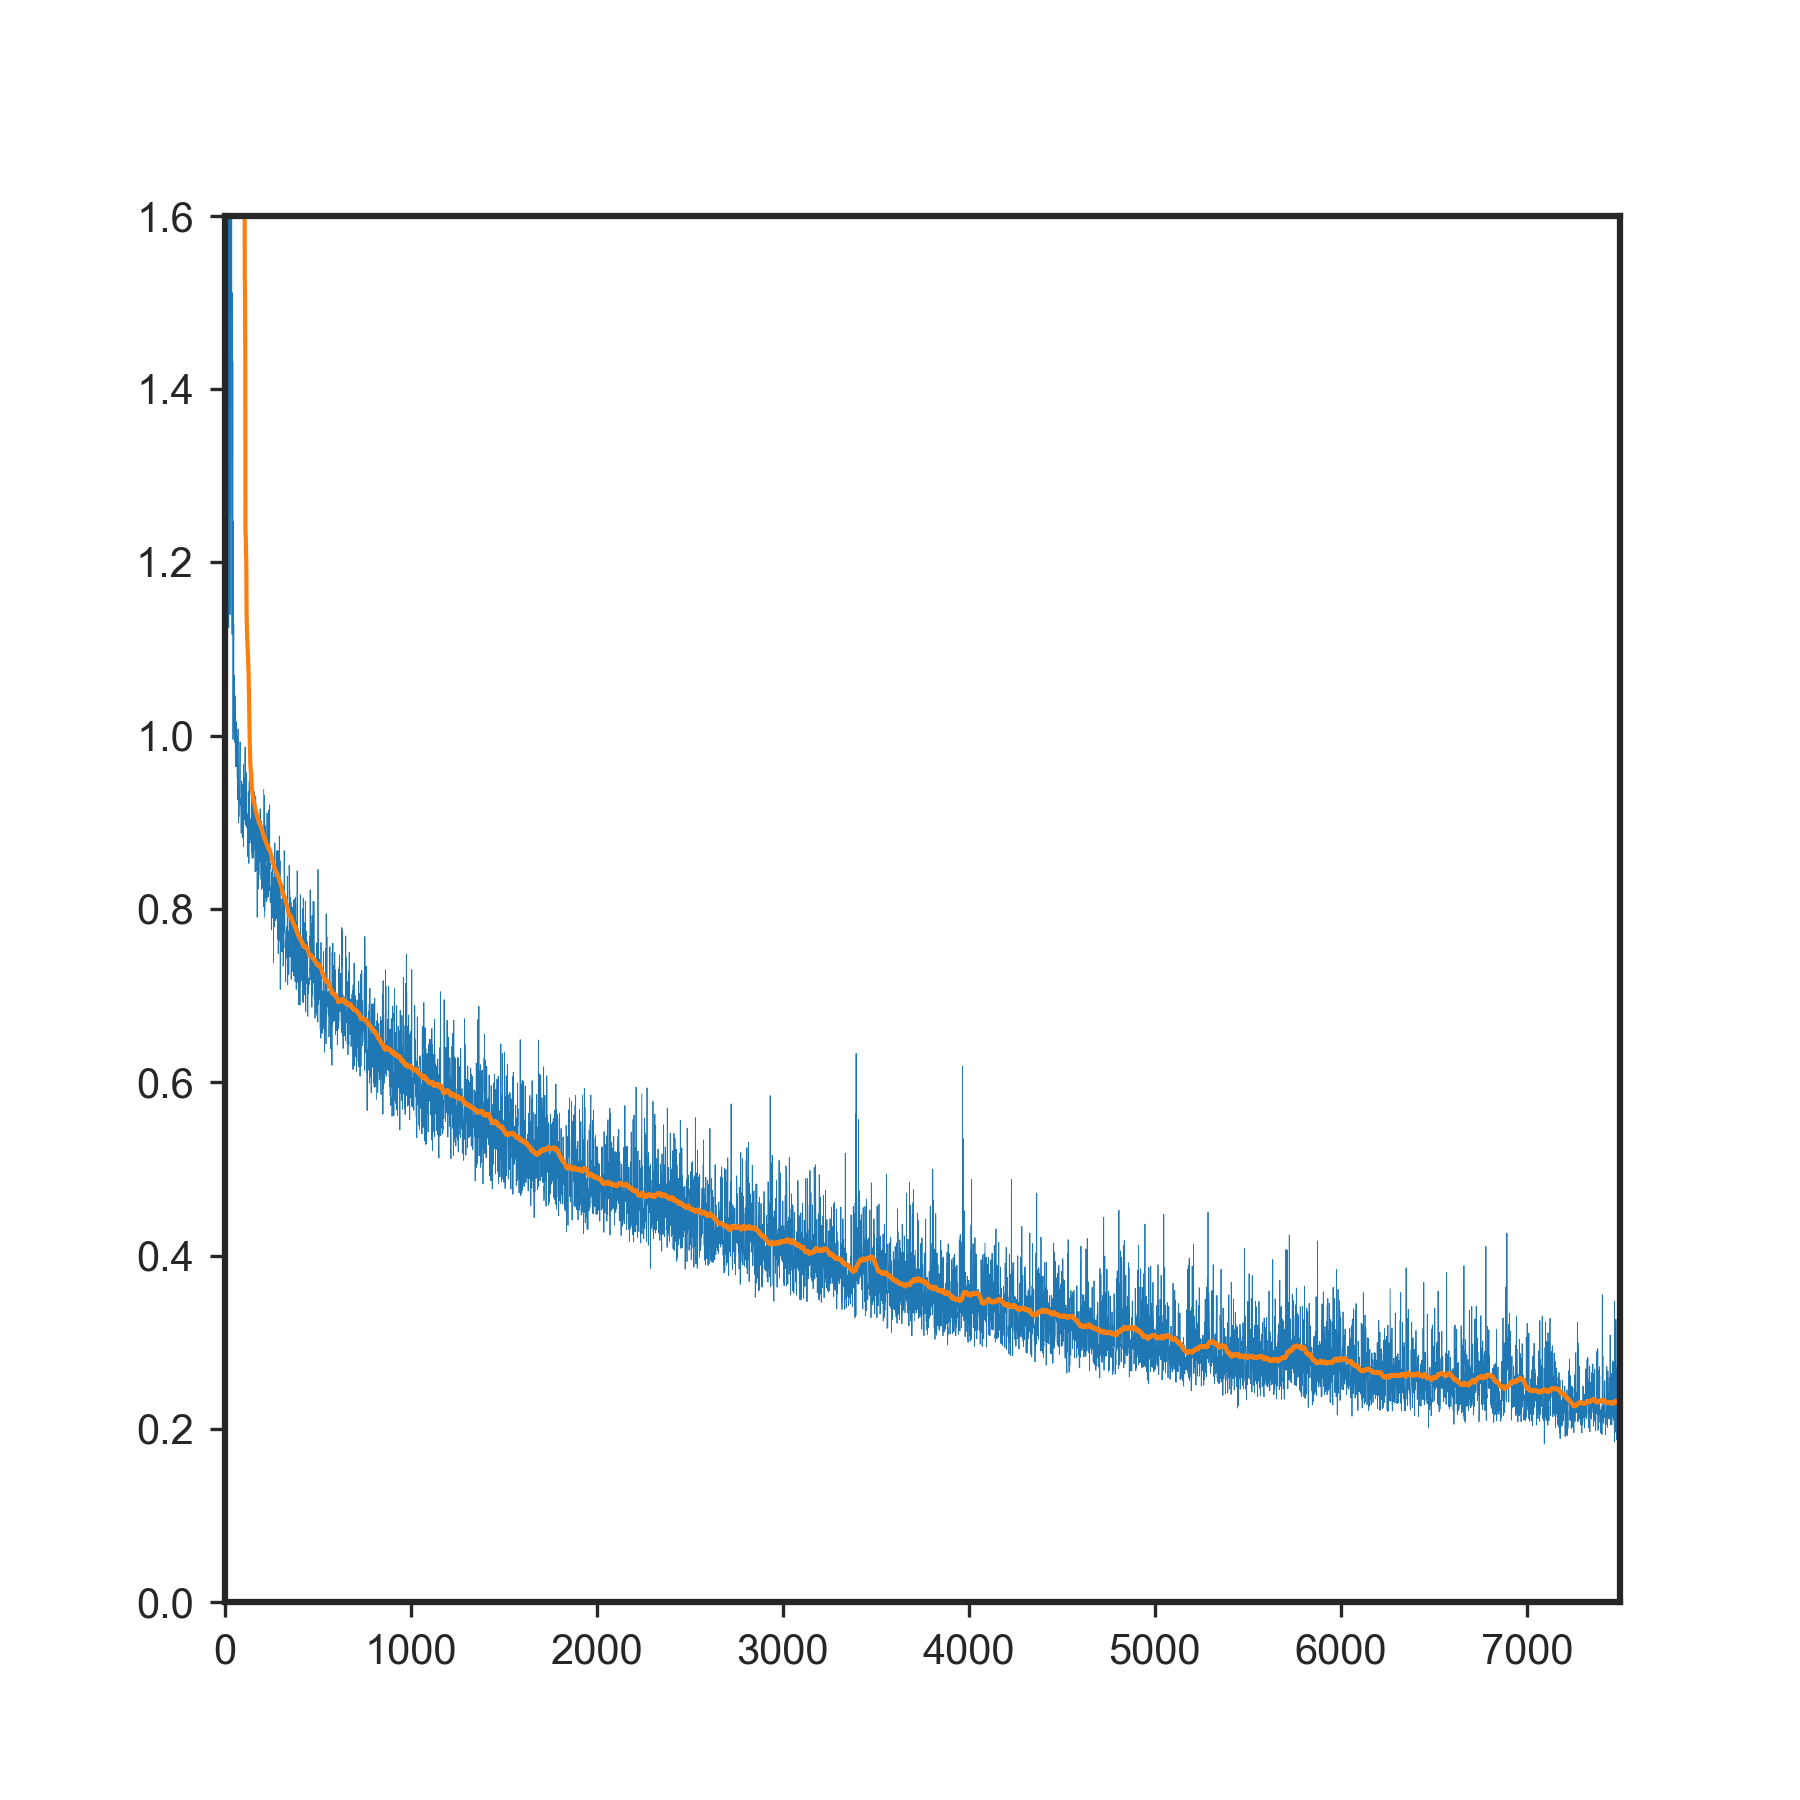
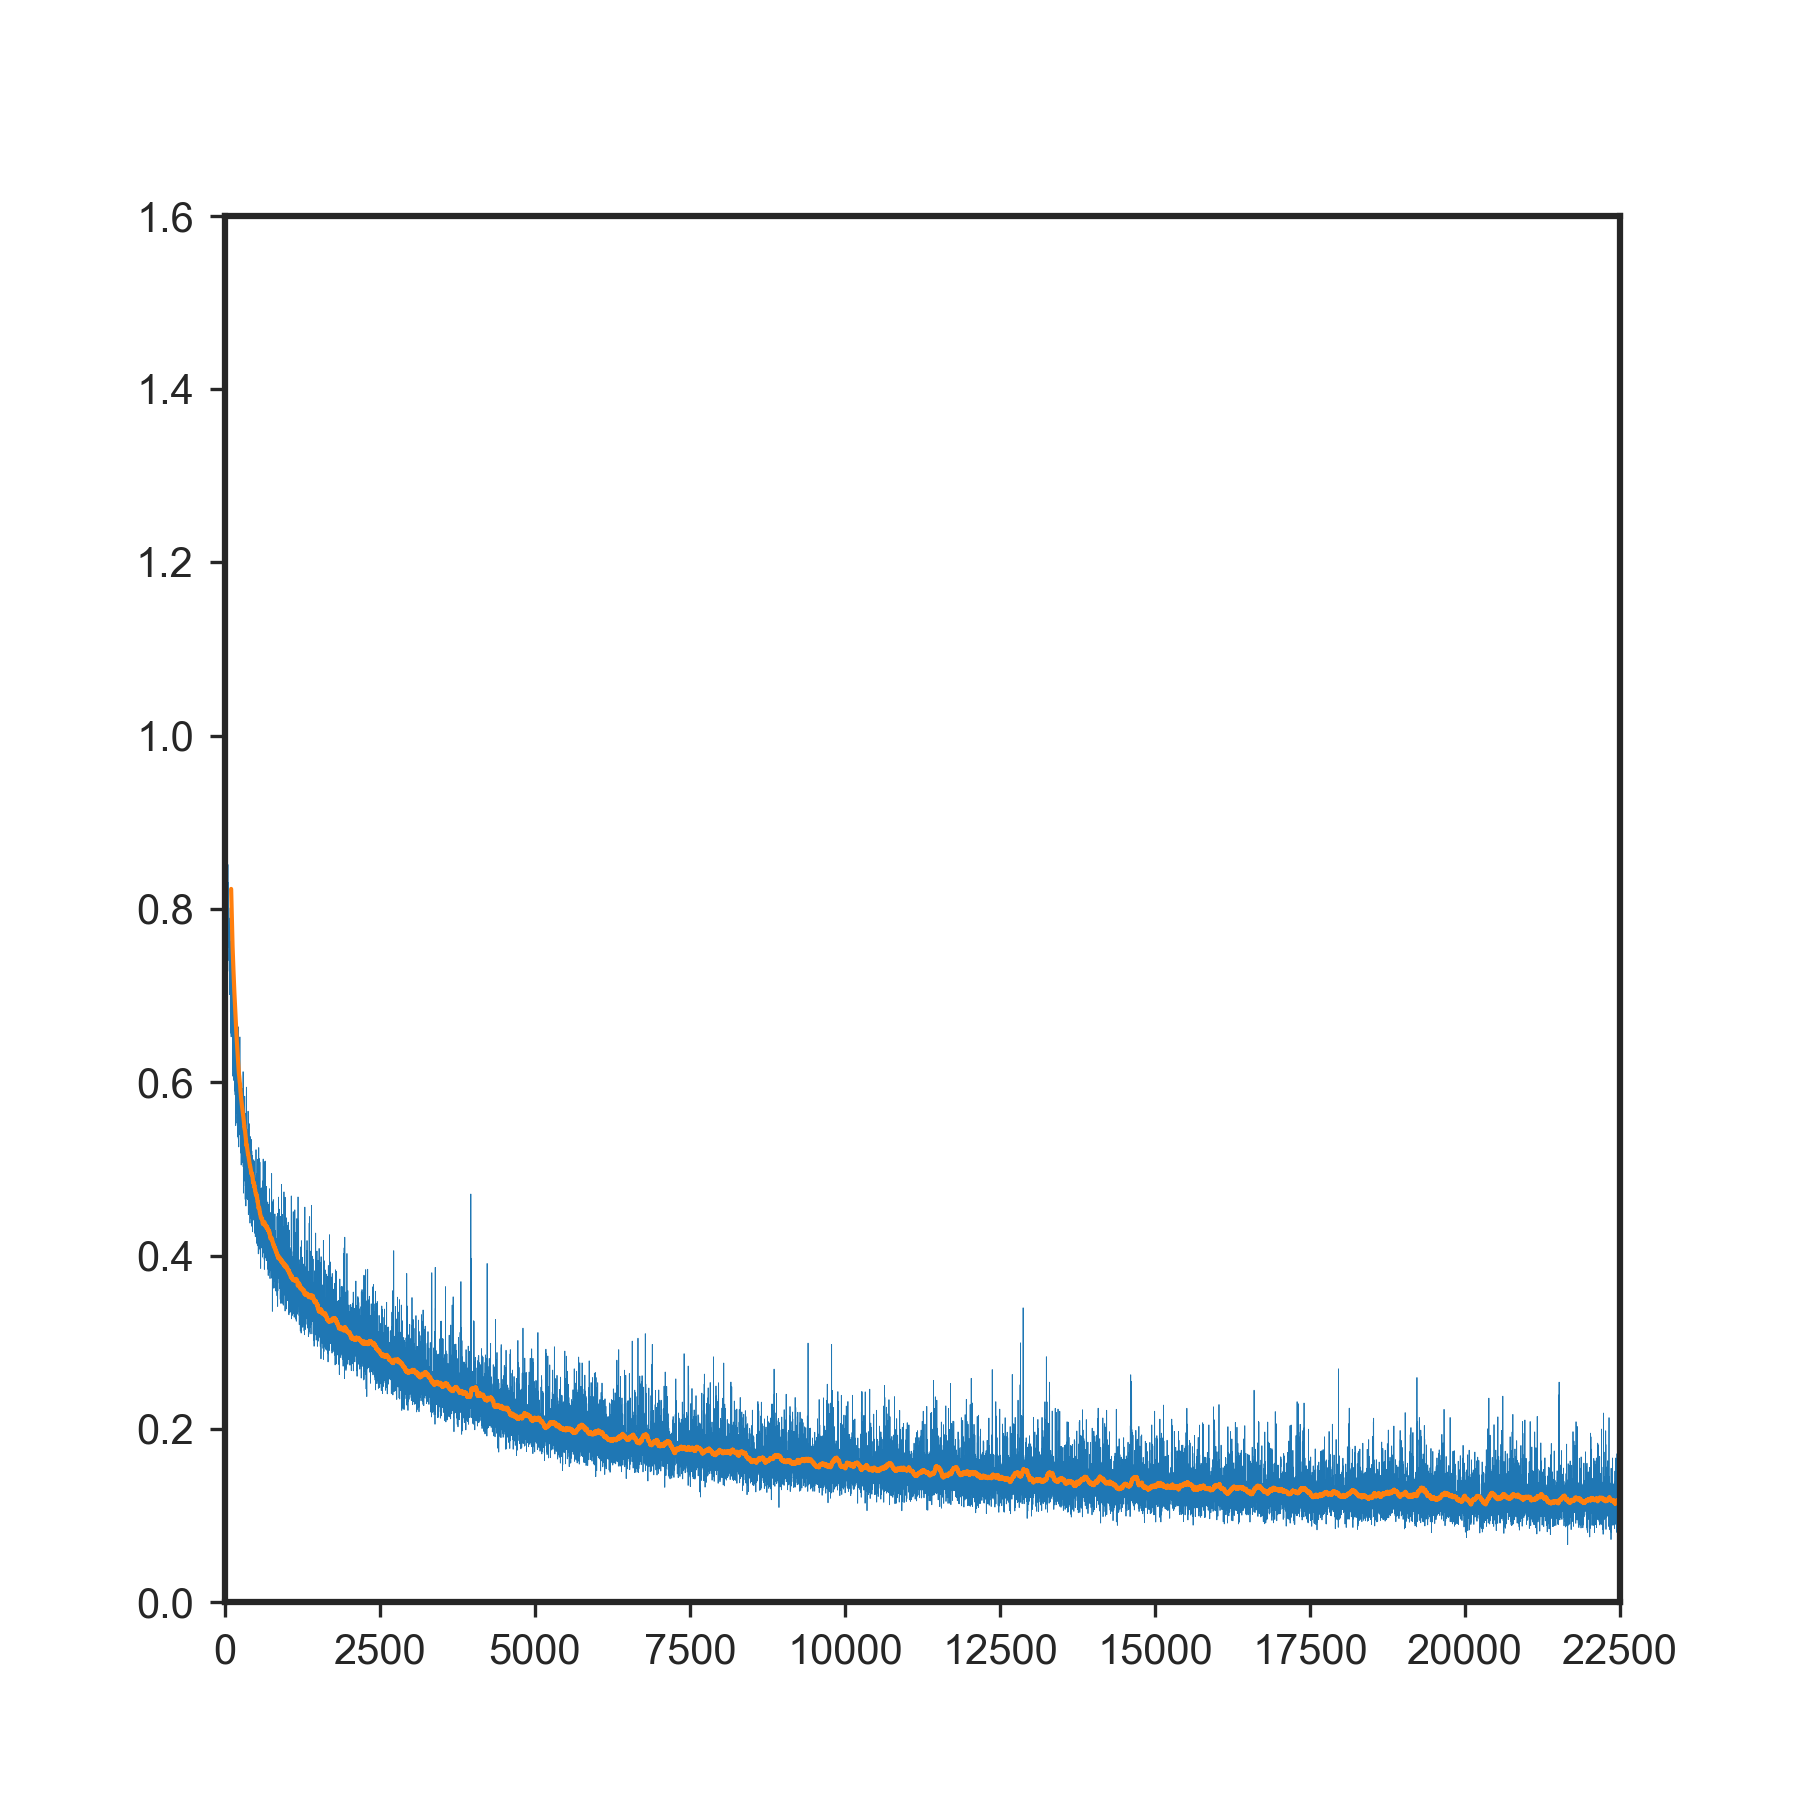
feat: add FID score

diff --git a/notebooks/2_5_fid.py b/notebooks/2_5_fid.py
@@ -1,0 +1,87 @@
+from ddpm_from_scratch.models.lenet5 import LeNet5
+from pathlib import Path
+import torch
+from torchtyping import TensorType
+from ddpm_from_scratch.ddpm import DDPM
+from ddpm_from_scratch.engines.mnist import (
+    MnistInferenceGifCallback,
+    get_one_element_per_digit,
+    inference,
+    load_mnist,
+    train,
+)
+from ddpm_from_scratch.models.unet import UNet
+from ddpm_from_scratch.utils import B, N, gaussian_frechet_distance, cosine_beta_schedule
+from tqdm import tqdm
+
+PLOT_DIR = Path(__file__).parent.parent / "plots"
+DATA_DIR = Path(__file__).parent.parent / "data"
+
+
+if __name__ == "__main__":
+
+    #%% Load the LeNet5 model.
+    lenet5 = LeNet5(num_classes=10)
+    lenet5.load_state_dict(torch.load(DATA_DIR / "lenet5.pt"))
+
+    # Load the MNIST dataset. Split between training and test set.
+    mnist_train, dataloader_train, mnist_test, dataloader_test = load_mnist(DATA_DIR, batch_size=8)
+
+    # Compute features for training and test set.
+    with torch.inference_mode():
+        features_train_list: list[TensorType["B", "N"]] = []
+        for (x, _) in tqdm(dataloader_train, desc="lenet5 - training"):
+            f, _ = lenet5(x)
+            features_train_list += [f]
+        features_train = torch.concat(features_train_list, dim=0)
+        features_test_list: list[TensorType["B", "N"]] = []
+        for (x, _) in tqdm(dataloader_test, desc="lenet5 - test"):
+            f, _ = lenet5(x)
+            features_test_list += [f]
+        features_test = torch.concat(features_test_list, dim=0)
+
+    # Compute statistics for training and test set,
+    mean_train = features_train.mean(dim=0)
+    cov_train = features_train.T.cov()
+    mean_test = features_test.mean(dim=0)
+    cov_test = features_test.T.cov()
+
+    # Compute test-test and test-train FID, as lower bounds.
+    test_test_fid = gaussian_frechet_distance(mean_test, cov_test, mean_test, cov_test).item()
+    test_train_fid = gaussian_frechet_distance(mean_test, cov_test, mean_train, cov_train).item()
+    print(f"test-test FID: {test_test_fid:.4f}")
+    print(f"test-train FID: {test_train_fid:.4f}")
+
+    #%% Compute test-random FID, as upper bound.
+    # To estimate the FID of noise, create random noise, and compute its LeNet5 features.
+    with torch.inference_mode():
+        features_rand_list: list[TensorType["B", "N"]] = []
+        for (x, _) in tqdm(dataloader_test, desc="lenet5 - random"):
+            f, _ = lenet5(torch.rand_like(x))
+            features_rand_list += [f]
+        features_rand = torch.concat(features_rand_list, dim=0)
+    mean_rand = features_rand.mean(dim=0)
+    cov_rand = features_rand.T.cov()
+    test_rand_fid = gaussian_frechet_distance(mean_test, cov_test, mean_rand, cov_rand).item()
+    print(f"test-random FID: {test_rand_fid:.4f}")
+
+    #%% Generate a bunch of digits using the pretrained model
+
+    unet = UNet()
+    unet.load_state_dict(torch.load(DATA_DIR / "unet.pt"))
+    betas = cosine_beta_schedule(num_timesteps=1000)
+    ddpm = DDPM(betas, unet)
+
+    with torch.inference_mode():
+        features_ddpm_list: list[TensorType["B", "N"]] = []
+        for (x, _) in tqdm(dataloader_test, desc="lenet5 - ddpm"):
+            x_denoised = inference(x=torch.rand_like(x), sampler=ddpm, verbose=False)
+            f, _ = lenet5(x_denoised)
+            features_ddpm_list += [f]
+            if len(features_ddpm_list) > 10:
+                break
+        features_ddpm = torch.concat(features_ddpm_list, dim=0)
+    mean_ddpm = features_ddpm.mean(dim=0)
+    cov_ddpm = features_ddpm.T.cov()
+    test_ddpm_fid = gaussian_frechet_distance(mean_test, cov_test, mean_ddpm, cov_ddpm).item()
+    print(f"test-ddpm FID: {test_ddpm_fid:.4f}")

diff --git a/notebooks/2_3_unet.py b/notebooks/2_3_unet.py
@@ -11,7 +11,7 @@ from ddpm_from_scratch.engines.mnist import (MnistInferenceGifCallback,
                                              get_one_element_per_digit,
                                              inference, load_mnist, train)
 from ddpm_from_scratch.models.unet import UNet
-from ddpm_from_scratch.utils import linear_beta_schedule
+from ddpm_from_scratch.utils import cosine_beta_schedule
 
 PLOT_DIR = Path(__file__).parent.parent / "plots"
 DATA_DIR = Path(__file__).parent.parent / "data"
@@ -29,22 +29,26 @@ if __name__ == "__main__":
     # Define the denoising model. This time, use a full UNet with timestep conditioning,
     # residual blocks, and self-attention.
     model = UNet()
-    print(model)
+    # print(model)
 
     # Define the optimizer.
-    optimizer = torch.optim.Adam(model.parameters(), lr=1e-2)
+    optimizer = torch.optim.Adam(model.parameters())
 
     # Create the diffusion process.
     # This time, we use a cosine schedule.
     num_timesteps = 1000
-    betas = linear_beta_schedule(num_timesteps, 8e-6, 9e-5)
+    betas = cosine_beta_schedule(num_timesteps)
+
     ddpm = DDPM(betas, model)
 
     # Load the MNIST dataset.
     mnist_train, dataloader_train, mnist_test, dataloader_test = load_mnist(DATA_DIR, batch_size=8)
 
     #%% Train the model, in the same way as before.
-    losses = train(dataloader=dataloader_train, sampler=ddpm, optimizer=optimizer, epochs=1)
+    losses = train(dataloader=dataloader_train, sampler=ddpm, optimizer=optimizer, epochs=3)
+
+    # Save the model
+    torch.save(model.state_dict(), DATA_DIR / "unet.pt")
 
     #%% Plot the loss function
     plt.figure(figsize=(6, 6))
@@ -56,15 +60,21 @@ if __name__ == "__main__":
 
     #%% Do inference, denoising one sample digit for each category (0, 1, 2, ...)
     x = get_one_element_per_digit(mnist_test)
-    # Add noise to the digits.
-    x_noisy, _ = ddpm.forward_sample(num_timesteps - 1, x)
-    # Do inference, and store results into the GIF, using the callback.
-    x_denoised = inference(
-        x=x_noisy,
-        sampler=ddpm,
-        callback=MnistInferenceGifCallback(filename=PLOT_DIR / "2_3_inference.gif"),
-        call_callback_every_n_steps=50,
-    )
-    # Compute error, as L2 norm.
-    l2 = torch.nn.functional.mse_loss(x_denoised, x, reduction="mean").item()
-    print(f"L2 norm after denoising: {l2:.6f}")
+    # Add noise to the digits, with some specified strengths.
+    # The model can denoise very well digits with a small amount of noise,
+    # but it will have problems denoising digits with a lot of noise.
+    # The extreme case, where we start with Gaussian noise, is pure image generation.
+    noise_strengths = [0.25, 0.5, 0.75, 1]
+    for noise_strength in noise_strengths:
+        x_noisy, _ = ddpm.forward_sample(int((num_timesteps - 1) * noise_strength), x)
+        # Do inference, and store results into the GIF, using the callback.
+        x_denoised = inference(
+            x=x_noisy,
+            sampler=ddpm,
+            callback=MnistInferenceGifCallback(filename=PLOT_DIR / f"2_3_inference_{noise_strength:.2f}.gif"),
+            call_callback_every_n_steps=50,
+            initial_step_percentage=noise_strength,
+        )
+        # Compute error, as L2 norm.
+        l2 = torch.nn.functional.mse_loss(x_denoised, x, reduction="mean").item()
+        print(f"L2 norm after denoising, noise strength {noise_strength:.2f}: {l2:.6f}")

diff --git a/ddpm_from_scratch/engines/mnist.py b/ddpm_from_scratch/engines/mnist.py
@@ -131,6 +131,8 @@ def inference(
     sampler: DDPM,
     callback: Optional[Callable[[int, TensorType["float"]], None]] = None,
     call_callback_every_n_steps: int = 50,
+    initial_step_percentage: float = 1,
+    verbose: bool = True,
 ) -> TensorType["B", "C", "H", "W", "float"]:
     """
     Loop for diffusion inference on a batch of MNIST digits.
@@ -142,20 +144,25 @@ def inference(
     :param call_callback_every_n_steps: interval, in steps, that elapses between calling the callback.
         The callback is not called if `call_callback_every_n_steps <= 0`.
         It is always called at the last step of inference.
+    :param initial_step_percentage: strength of the noise applied to the forward sample, in [0, 1].
+        By default, assume we are starting from pure noise, and we are generating data from pure noise.
+        If less than 1, we perform denoising starting from a noisy image, doing only a fraction of the timesteps.
+    :param verbose: if True, print a progress bar during inference
     :return: the denoised MNIST digits, as a tensor normalized in `[-1, 1]`.
     """
-    steps = np.linspace(1, 0, sampler.num_timesteps)
-    for t in tqdm(steps, desc="inference", total=len(steps)):
+    # Compute the timestep we start from, as percentage of the total
+    num_timesteps = max(1, int(sampler.num_timesteps * initial_step_percentage))
+    steps = np.linspace(initial_step_percentage, 0, num_timesteps)
+    for t in tqdm(steps, desc="inference", total=len(steps), disable=not verbose):
         # Get timestep, in the range [0, num_timesteps)
-        timestep = min(int(t * sampler.num_timesteps), sampler.num_timesteps - 1)
+        timestep = min(int(t * sampler.num_timesteps), num_timesteps - 1)
         # Inference, predict the next step given the current one
         with torch.inference_mode():
             x, _ = sampler.backward_sample(timestep, x, add_noise=t != 0)
         # Call the optional callback, every few steps
         if (
             call_callback_every_n_steps > 0
-            and timestep % call_callback_every_n_steps == 0
-            or timestep == sampler.num_timesteps - 1
+            and (timestep % call_callback_every_n_steps == 0 or timestep == num_timesteps - 1)
             and callback is not None
         ):
             assert callback is not None

diff --git a/ddpm_from_scratch/models/lenet5.py b/ddpm_from_scratch/models/lenet5.py
@@ -1,5 +1,8 @@
 import torch.nn as nn
 from einops import rearrange  # type: ignore
+from torchtyping import TensorType
+
+from ddpm_from_scratch.utils import B, C, H, W, N, M
 
 
 class LeNet5(nn.Module):
@@ -27,7 +30,15 @@ class LeNet5(nn.Module):
         self.relu_2 = nn.ReLU()
         self.fc_3 = nn.Linear(84, num_classes)
 
-    def forward(self, x):
+    def forward(
+        self, x: TensorType["B", "C", "H", "W", "float"]
+    ) -> tuple[TensorType["B", "N", "float"], TensorType["B", "M", "float"]]:
+        """
+        Forward pass of LeNet5. Since we are interested in using this network for FID,
+        we also return the second-to-last layer activations.
+
+        :return: a tuple containing the activations of the second-to-last layer, and the output of the network.
+        """
         x = self.block_1(x)
         x = self.block_2(x)
         x = rearrange(x, "b c h w -> b (c h w)")  # Flatten features for fully connected layers.
@@ -35,5 +46,4 @@ class LeNet5(nn.Module):
         x = self.relu_1(x)
         x = self.fc_2(x)
         x = self.relu_2(x)
-        x = self.fc_3(x)
-        return x
+        return x, self.fc_3(x)

diff --git a/notebooks/2_4_lenet.py b/notebooks/2_4_lenet.py
@@ -48,7 +48,7 @@ if __name__ == "__main__":
             # Zero gradients at every step
             optimizer.zero_grad()
             # Predict the digits
-            y_pred = model(x)
+            _, y_pred = model(x)
             # Compute loss, as BCE
             loss = binary_cross_entropy_with_logits(y_pred, y_one_hot, reduction="mean")
             # Also compute number of errors
@@ -72,7 +72,7 @@ if __name__ == "__main__":
         for i, (x, y) in enumerate(val_progress_bar_step):
             y_one_hot = torch.nn.functional.one_hot(y, 10).float()
             with torch.inference_mode():
-                y_pred = model(x)
+                _, y_pred = model(x)
                 # Compute BCE and errors
                 val_loss = binary_cross_entropy_with_logits(y_pred, y_one_hot, reduction="mean").item()
                 e = (y != y_pred.argmax(axis=1)).float().mean().item()

diff --git a/ddpm_from_scratch/utils.py b/ddpm_from_scratch/utils.py
@@ -137,3 +137,18 @@ def expand_to_dims(x: torch.Tensor, y: torch.Tensor):
     :return: the expanded input tensor
     """
     return x[(...,) + (None,) * (len(y.shape) - len(x.shape))]
+
+
+def gaussian_frechet_distance(
+    μ_1: TensorType["N"], Σ_1: TensorType["N", "N"], μ_2: TensorType["N"], Σ_2: TensorType["N", "N"]
+) -> TensorType[1]:
+    """
+    Frechet Inception Distance (FID) between two multivariate Gaussian distributions.
+    It measures how different the two distributions are: intuitively, it looks for the difference of means,
+    and for how different the "rotations" of the covariance matrices are.
+    It is computed as `|μ_1 - μ_2|**2 + trace(Σ_1 + Σ_2 - 2*sqrt(Σ_1 * Σ_2))`.
+
+    :return: the FID of the two distributions.
+    """
+    diff = μ_1 - μ_2
+    return torch.sum(diff * diff) + torch.trace(Σ_1 + Σ_2 - 2 * torch.sqrt(Σ_1 * Σ_2))

diff --git a/README.md b/README.md
@@ -31,9 +31,9 @@ In the second part, we build a realistic UNet to denoise the MNIST dataset, and 
 
 * `2_1_mnist.py`. Let's create a very simple UNet without time-step conditioning, and see if we can use it to denoise MNIST digits. Surprisingly, it works well even without any information on the time-step. There's still room to improve though.
 * `2_2_mnist.py`. Here we modify the UNet to have conditioning on the time-step. It turns out that results are not much different than before, hinting that the model might be too simple for the task.
-* `2_3_unet.py`. In this notebook, we train a much more complex UNet, not too different from the ones you might see in real papers. It has ResNet blocks, self-attention blocks, and time-step conditioning. Also, we use a cosine `β schedule` to improve the quality of the diffusion process. Results are significantly better than before!
+* `2_3_unet.py`. In this notebook, we train a much more complex UNet, not too different from the ones you might see in real papers. It has ResNet blocks, self-attention blocks, and time-step conditioning. Also, we use a cosine `β schedule` to improve the quality of the diffusion process. Results are significantly better than before! While we can denoise digits very well, we observe that we cannot quite create digits when starting from pure noise. Some additional tricks are needed!
 * `2_4_lenet.py`. Although we can evaluate the quality of denosing with a simple L2 norm, measuring the quality of digits generated from scratch is more difficult. We'll use FID, a distance that measures the distribution shift between features of real and generated digits. To compute this metric, we need a classifier, or some other kind of model trained on the images that we want to generate. So, we train a simple LeNet5, and we will later use it to compute the FID.
-* `2_5_fid.py`. In this notebook, we finally generate some digits, and measure their quality when compared to the real digits, using FID. 
+* `2_5_fid.py`. In this notebook, we finally generate some digits, and measure their quality when compared to the real digits, using FID. While we are better than random, there's still room to improve!
 
 ## References
 
